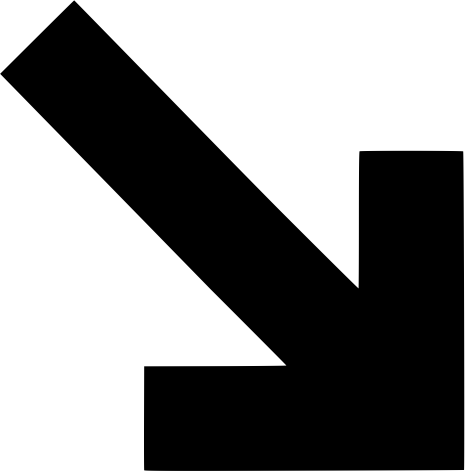
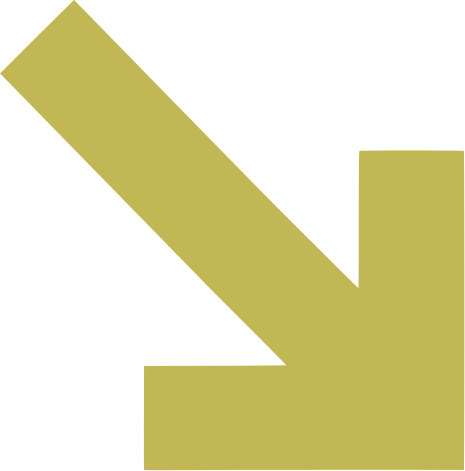
better colors some responsive

diff --git a/docs/css/style.css b/docs/css/style.css
@@ -1,2 +1,2 @@
-@font-face{font-family:'Flaco';src:url("../fonts/FlacoUltLig/Flaco-UltLig.eot");src:url("../fonts/FlacoUltLig/Flaco-UltLig.eot?#iefix") format("embedded-opentype"),url("../fonts/FlacoUltLig/Flaco-UltLig.woff") format("woff"),url("../fonts/FlacoUltLig/Flaco-UltLig.ttf") format("truetype"),url("../fonts/FlacoUltLig/Flaco-UltLig.svg#Flaco-UltLig") format("svg");font-style:normal;font-weight:100;text-rendering:optimizeLegibility}@font-face{font-family:'Flaco';src:url("../fonts/FlacoThin/Flaco-Thin.eot");src:url("../fonts/FlacoThin/Flaco-Thin.eot?#iefix") format("embedded-opentype"),url("../fonts/FlacoThin/Flaco-Thin.woff") format("woff"),url("../fonts/FlacoThin/Flaco-Thin.ttf") format("truetype"),url("../fonts/FlacoThin/Flaco-Thin.svg#Flaco-Thin") format("svg");font-style:normal;font-weight:200;text-rendering:optimizeLegibility}@font-face{font-family:'Flaco';src:url("../fonts/FlacoXLig/Flaco-XLig.eot");src:url("../fonts/FlacoXLig/Flaco-XLig.eot?#iefix") format("embedded-opentype"),url("../fonts/FlacoXLig/Flaco-XLig.woff") format("woff"),url("../fonts/FlacoXLig/Flaco-XLig.ttf") format("truetype"),url("../fonts/FlacoXLigont/Flaco-XLig.svg#Flaco-XLig") format("svg");font-style:normal;font-weight:300;text-rendering:optimizeLegibility}@font-face{font-family:'Flaco';src:url("../fonts/FlacoLig/Flaco-Lig.eot");src:url("../fonts/FlacoLig/Flaco-Lig.eot?#iefix") format("embedded-opentype"),url("../fonts/FlacoLig/Flaco-Lig.woff") format("woff"),url("../fonts/FlacoLig/Flaco-Lig.ttf") format("truetype"),url("../fonts/FlacoLig/Flaco-Lig.svg#Flaco-Lig") format("svg");font-style:normal;font-weight:400;text-rendering:optimizeLegibility}@font-face{font-family:'Flaco';src:url("../fonts/FlacoReg/Flaco-Reg.eot");src:url("../fonts/FlacoReg/Flaco-Reg.eot?#iefix") format("embedded-opentype"),url("../fonts/FlacoReg/Flaco-Reg.woff") format("woff"),url("../fonts/FlacoReg/Flaco-Reg.ttf") format("truetype"),url("../fonts/FlacoReg/Flaco-Reg.svg#Flaco-Reg") format("svg");font-style:normal;font-weight:500;text-rendering:optimizeLegibility}@font-face{font-family:'Flaco';src:url("../fonts/FlacoMedium/Flaco-Medium.eot");src:url("../fonts/FlacoMedium/Flaco-Medium.eot?#iefix") format("embedded-opentype"),url("../fonts/FlacoMedium/Flaco-Medium.woff") format("woff"),url("../fonts/FlacoMedium/Flaco-Medium.ttf") format("truetype"),url("../fonts/FlacoMedium/Flaco-Medium.svg#Flaco-Medium") format("svg");font-style:normal;font-weight:600;text-rendering:optimizeLegibility}@font-face{font-family:'Flaco';src:url("../fonts/FlacoBol/Flaco-Bol.eot");src:url("../fonts/FlacoBol/Flaco-Bol.eot?#iefix") format("embedded-opentype"),url("../fonts/FlacoBol/Flaco-Bol.woff") format("woff"),url("../fonts/FlacoBol/Flaco-Bol.ttf") format("truetype"),url("../fonts/FlacoBol/Flaco-Bol.svg#Flaco-Bol") format("svg");font-style:normal;font-weight:700;text-rendering:optimizeLegibility}@font-face{font-family:'Flaco';src:url("../fonts/FlacoXBol/Flaco-XBol.eot");src:url("../fonts/FlacoXBol/Flaco-XBol.eot?#iefix") format("embedded-opentype"),url("../fonts/FlacoXBol/Flaco-XBol.woff") format("woff"),url("../fonts/FlacoXBol/Flaco-XBol.ttf") format("truetype"),url("../fonts/FlacoXBol/Flaco-XBol.svg#Flaco-XBol") format("svg");font-style:normal;font-weight:800;text-rendering:optimizeLegibility}@font-face{font-family:'Flaco';src:url("../fonts/FlacoHeavy/Flaco-Heavy.eot");src:url("../fonts/FlacoHeavy/Flaco-Heavy.eot?#iefix") format("embedded-opentype"),url("../fonts/FlacoHeavy/Flaco-Heavy.woff") format("woff"),url("../fonts/FlacoHeavy/Flaco-Heavy.ttf") format("truetype"),url("../fonts/FlacoHeavy/Flaco-Heavy.svg#Flaco-Heavy") format("svg");font-style:normal;font-weight:900;text-rendering:optimizeLegibility}@font-face{font-family:'Flaco Mono';src:url("../fonts/FlacoMono/FlacoMono-Reg.eot");src:url("../fonts/FlacoMono/FlacoMono-Reg.eot?#iefix") format("embedded-opentype"),url("../fonts/FlacoMono/FlacoMono-Reg.woff") format("woff"),url("../fonts/FlacoMono/FlacoMono-Reg.ttf") format("truetype"),url("../fonts/FlacoMono/FlacoMono-Reg.svg#FlacoMono-Reg") format("svg");font-style:normal;font-weight:normal;text-rendering:optimizeLegibility}body{font-family:'Flaco', sans-serif;font-weight:400;color:#EDEAE3;background-color:#1f1f1f;padding:0px;margin:0px}h1{font-weight:900;font-size:48px}a{color:white;text-decoration:underline;-webkit-transition:all 0.15s ease-out;-moz-transition:all 0.15s ease-out;-ms-transition:all 0.15s ease-out;-o-transition:all 0.15s ease-out;transition:all 0.15s ease-out}a:hover{opacity:.5}#header-container{padding-top:48px;padding-left:20px;padding-right:20px;background-color:#1f1f1f}#title{width:33.33333%;color:#1DA1F2}@media (min-width: 800px){#main-content-container{display:flex;flex-direction:row;align-items:flex-start}}#abstract{width:33.33333%;padding-left:20px;padding-right:20px}#mirror{padding:12px;cursor:pointer;text-decoration:none;width:66.66667%;height:90vh;background-color:#fafafa;color:#1f1f1f;font-size:128px;font-weight:800;line-height:120px;letter-spacing:-5px;-webkit-transition:all 0.45s ease-out;-moz-transition:all 0.45s ease-out;-ms-transition:all 0.45s ease-out;-o-transition:all 0.45s ease-out;transition:all 0.45s ease-out}#mirror:hover{opacity:1;transform:translateY(10px);color:blue}#mirror:active{transform:translateY(15px)}#mirror #bord{width:80%;margin-top:82px;border-bottom:1px solid black}#mirror #twitdown{width:200px;height:auto;float:right;bottom:0px}#mirror #mirror-text{font-size:48px;opacity:.5;letter-spacing:-2px;user-select:none}
+@font-face{font-family:'Flaco';src:url("../fonts/FlacoUltLig/Flaco-UltLig.eot");src:url("../fonts/FlacoUltLig/Flaco-UltLig.eot?#iefix") format("embedded-opentype"),url("../fonts/FlacoUltLig/Flaco-UltLig.woff") format("woff"),url("../fonts/FlacoUltLig/Flaco-UltLig.ttf") format("truetype"),url("../fonts/FlacoUltLig/Flaco-UltLig.svg#Flaco-UltLig") format("svg");font-style:normal;font-weight:100;text-rendering:optimizeLegibility}@font-face{font-family:'Flaco';src:url("../fonts/FlacoThin/Flaco-Thin.eot");src:url("../fonts/FlacoThin/Flaco-Thin.eot?#iefix") format("embedded-opentype"),url("../fonts/FlacoThin/Flaco-Thin.woff") format("woff"),url("../fonts/FlacoThin/Flaco-Thin.ttf") format("truetype"),url("../fonts/FlacoThin/Flaco-Thin.svg#Flaco-Thin") format("svg");font-style:normal;font-weight:200;text-rendering:optimizeLegibility}@font-face{font-family:'Flaco';src:url("../fonts/FlacoXLig/Flaco-XLig.eot");src:url("../fonts/FlacoXLig/Flaco-XLig.eot?#iefix") format("embedded-opentype"),url("../fonts/FlacoXLig/Flaco-XLig.woff") format("woff"),url("../fonts/FlacoXLig/Flaco-XLig.ttf") format("truetype"),url("../fonts/FlacoXLigont/Flaco-XLig.svg#Flaco-XLig") format("svg");font-style:normal;font-weight:300;text-rendering:optimizeLegibility}@font-face{font-family:'Flaco';src:url("../fonts/FlacoLig/Flaco-Lig.eot");src:url("../fonts/FlacoLig/Flaco-Lig.eot?#iefix") format("embedded-opentype"),url("../fonts/FlacoLig/Flaco-Lig.woff") format("woff"),url("../fonts/FlacoLig/Flaco-Lig.ttf") format("truetype"),url("../fonts/FlacoLig/Flaco-Lig.svg#Flaco-Lig") format("svg");font-style:normal;font-weight:400;text-rendering:optimizeLegibility}@font-face{font-family:'Flaco';src:url("../fonts/FlacoReg/Flaco-Reg.eot");src:url("../fonts/FlacoReg/Flaco-Reg.eot?#iefix") format("embedded-opentype"),url("../fonts/FlacoReg/Flaco-Reg.woff") format("woff"),url("../fonts/FlacoReg/Flaco-Reg.ttf") format("truetype"),url("../fonts/FlacoReg/Flaco-Reg.svg#Flaco-Reg") format("svg");font-style:normal;font-weight:500;text-rendering:optimizeLegibility}@font-face{font-family:'Flaco';src:url("../fonts/FlacoMedium/Flaco-Medium.eot");src:url("../fonts/FlacoMedium/Flaco-Medium.eot?#iefix") format("embedded-opentype"),url("../fonts/FlacoMedium/Flaco-Medium.woff") format("woff"),url("../fonts/FlacoMedium/Flaco-Medium.ttf") format("truetype"),url("../fonts/FlacoMedium/Flaco-Medium.svg#Flaco-Medium") format("svg");font-style:normal;font-weight:600;text-rendering:optimizeLegibility}@font-face{font-family:'Flaco';src:url("../fonts/FlacoBol/Flaco-Bol.eot");src:url("../fonts/FlacoBol/Flaco-Bol.eot?#iefix") format("embedded-opentype"),url("../fonts/FlacoBol/Flaco-Bol.woff") format("woff"),url("../fonts/FlacoBol/Flaco-Bol.ttf") format("truetype"),url("../fonts/FlacoBol/Flaco-Bol.svg#Flaco-Bol") format("svg");font-style:normal;font-weight:700;text-rendering:optimizeLegibility}@font-face{font-family:'Flaco';src:url("../fonts/FlacoXBol/Flaco-XBol.eot");src:url("../fonts/FlacoXBol/Flaco-XBol.eot?#iefix") format("embedded-opentype"),url("../fonts/FlacoXBol/Flaco-XBol.woff") format("woff"),url("../fonts/FlacoXBol/Flaco-XBol.ttf") format("truetype"),url("../fonts/FlacoXBol/Flaco-XBol.svg#Flaco-XBol") format("svg");font-style:normal;font-weight:800;text-rendering:optimizeLegibility}@font-face{font-family:'Flaco';src:url("../fonts/FlacoHeavy/Flaco-Heavy.eot");src:url("../fonts/FlacoHeavy/Flaco-Heavy.eot?#iefix") format("embedded-opentype"),url("../fonts/FlacoHeavy/Flaco-Heavy.woff") format("woff"),url("../fonts/FlacoHeavy/Flaco-Heavy.ttf") format("truetype"),url("../fonts/FlacoHeavy/Flaco-Heavy.svg#Flaco-Heavy") format("svg");font-style:normal;font-weight:900;text-rendering:optimizeLegibility}@font-face{font-family:'Flaco Mono';src:url("../fonts/FlacoMono/FlacoMono-Reg.eot");src:url("../fonts/FlacoMono/FlacoMono-Reg.eot?#iefix") format("embedded-opentype"),url("../fonts/FlacoMono/FlacoMono-Reg.woff") format("woff"),url("../fonts/FlacoMono/FlacoMono-Reg.ttf") format("truetype"),url("../fonts/FlacoMono/FlacoMono-Reg.svg#FlacoMono-Reg") format("svg");font-style:normal;font-weight:normal;text-rendering:optimizeLegibility}body{font-family:'Flaco', sans-serif;font-weight:400;color:#1f1f1f;background-color:#fff9f2;padding:0px;margin:0px}h1{font-weight:900;font-size:48px}a{color:inherit;text-decoration:underline;-webkit-transition:all 0.15s ease-out;-moz-transition:all 0.15s ease-out;-ms-transition:all 0.15s ease-out;-o-transition:all 0.15s ease-out;transition:all 0.15s ease-out}a:hover{opacity:.5}p{font-weight:600;font-size:14px;line-height:17px;color:#1f1f1f}#header-container{padding-top:48px;padding-left:20px;padding-right:20px;background-color:#fff9f2;width:100%}@media (min-width: 600px){#header-container{margin-left:8.33333%}}@media (min-width: 1200px){#header-container{margin-left:8.33333%}}#title{color:#1DA1F2;font-weight:500}#main-content-container{display:flex;flex-direction:column}@media (min-width: 800px){#main-content-container{flex-direction:row;align-items:flex-start}}#abstract{padding-left:20px;padding-right:20px;width:100%}@media (min-width: 600px){#abstract{margin-left:8.33333%;width:83.33333%}}@media (min-width: 1200px){#abstract{margin-left:8.33333%;width:25%}}#spacer-div{width:8.33333%;padding-left:20px;padding-right:20px}#mirror{-webkit-clip-path:polygon(0 0, 100% 0, 100% 20%, 100% 80%, 100% 100%, 20% 100%, 0% 80%, 0% 20%);clip-path:polygon(0 0, 100% 0, 100% 20%, 100% 80%, 100% 100%, 20% 100%, 0% 80%, 0% 20%);padding:12px;cursor:pointer;text-decoration:none;width:58.33333%;height:724px;background-color:#1f1f1f;color:#C1B755;font-size:128px;font-weight:800;line-height:120px;letter-spacing:-5px;overflow:hidden;-webkit-transition:all 0.45s ease-out;-moz-transition:all 0.45s ease-out;-ms-transition:all 0.45s ease-out;-o-transition:all 0.45s ease-out;transition:all 0.45s ease-out}#mirror:hover{transform:translateY(10px)}#mirror:active{transform:translateY(15px)}#mirror #bord{width:80%;margin-top:82px;border-bottom:1px solid #hl-color}#mirror #twitdown{width:250px;height:auto;margin-top:12px;margin-left:auto;margin-right:0px;position:relative;bottom:0px}#mirror #mirror-text{font-size:44px;margin-left:20%;color:#fff9f2;letter-spacing:0px;user-select:none}
 /*# sourceMappingURL=style.css.map */

diff --git a/docs/index.html b/docs/index.html
@@ -17,21 +17,21 @@
 
 			<p>A brief literature review suggests that that self-awareness can reduce aggressive behavior aimed towards the self and towards others. Two types of self-awareness are relevant: with private, self-focused attention encourages reflection on one's own attitudes, standards, and emotional states. In some studies, private self-awareness is induced with the presence of mirrors and live video feeds of onself.  Public self-awareness, on the other hand, can be induced with the presence of cameras or other people, and is typically concerned with notions of accountability and extrinsic social standards.</p>
 
-			<p>Omayeli Arenyeka has written about the power of the browser extension to create <a href="https://www.are.na/blog/case%20study/2018/04/03/alternate-digital-realities.html">alternative digital realities</a>. If the browser and the timeline or stream are primary interfaces for viewing and interacting with the world, these interfaces present opportunities for high-leverage interventions that facilitate positive feedback loops.</p>
+			<p>Omayeli Arenyeka has written about the power of the browser extension to create <a target="_blank" href="https://www.are.na/blog/case%20study/2018/04/03/alternate-digital-realities.html">alternative digital realities</a>. If the browser and the timeline or stream are primary interfaces for viewing and interacting with the world, these interfaces present opportunities for high-leverage interventions that facilitate positive feedback loops.</p>
 
-			<p>Made by @simpolism and @tobyshorin.</p>
+			<p>Made by <a target="_blank" href="https://twitter.com/simpolism">@simpolism</a> and <a target="_blank" href="https://twitter.com/tobyshorin">@tobyshorin</a>.</p>
 		</div>
+		<div id="spacer-div"></div>
 		<div id="mirror">Keep others<br>in mind when you tweet.
-			<img id="twitdown" src="static/twitdown.png">
-			<div id="bord"></div>
-			<div id="mirror-text">Download Chrome extension</div>	
+			<img id="twitdown" src="static/twitdown2.png"><img id="twitdown" src="static/twitdown2.png"><img id="twitdown" src="static/twitdown2.png">
+			<div id="mirror-text">Download Chrome extension</div>
 		</div>		
 	</div>
 
 <!-- 	<div id="about-section">
 		<div class="about-content">
 			Who made this?
-			<p><a href="https://twitter.com/simpolism">@simpolism</a> and <a href="https://twitter.com/tobyshorin">@tobyshorin</a>.</p>
+			<p><a target="_blank" href="https://twitter.com/simpolism">@simpolism</a> and <a target="_blank" href="https://twitter.com/tobyshorin">@tobyshorin</a>.</p>
 		</div>
 		<div class="about-content">https://www.are.na/toby-shorin/mirror-for-twitter</div>
 		<div class="about-content">https://www.are.na/toby-shorin/mirror-for-twitter</div>

diff --git a/docs/css/style.scss b/docs/css/style.scss
@@ -7,11 +7,16 @@
 
 $baseline-height: 24px;
 
+$bg-color: #fff9f2;
+$txt-color: #1f1f1f;
+$tw-color: #1DA1F2;
+$hl-color: #C1B755;
+
 body {
 	font-family: 'Flaco', sans-serif;
 	font-weight: 400;
-	color:#EDEAE3;
-	background-color: #1f1f1f;
+	color: $txt-color;
+	background-color: $bg-color;
 	padding: 0px;
 	margin: 0px;
 }
@@ -22,7 +27,7 @@ h1{
 }
 
 a {
-	color: white;
+	color: inherit;
 	text-decoration: underline;
 	@include transition (all .15s ease-out);
 	&:hover{
@@ -31,52 +36,82 @@ a {
 }
 
 p{
-
+	font-weight: 600;
+	font-size: 14px;
+	line-height: 17px;
+	color: $txt-color;
 }
 
 #header-container{
 	padding-top: $baseline-height * 2;
 	@include p(); 
-	background-color: #1f1f1f;
+	background-color: $bg-color;
+	width: g(12,12);
+
+	@media (min-width:600px){
+		margin-left: g(1,12);
+	}	
+
+	@media (min-width:1200px){
+		margin-left: g(1,12);
+	}	
+
 }
 
 #title{
-	width: g(2,6);
-	color: #1DA1F2;
+	color: $tw-color;
+	font-weight: 500;
 }
 
 
 #main-content-container{
-
+	display: flex;
+	flex-direction: column;
 	@media (min-width: 800px){
-		display: flex;
 		flex-direction: row;
 		align-items: flex-start;
 	}
+
 }
 
 #abstract{
-	width: g(2,6);
+	@include p();
+	width: g(12,12);
+
+	@media (min-width:600px){
+		margin-left: g(1,12);
+		width: g(10,12);
+	}	
+
+	@media (min-width:1200px){
+		margin-left: g(1,12);
+		width: g(3,12);
+	}	
+}
+
+#spacer-div{
+	width: g(1,12);
 	@include p();
 }
 
 #mirror{
+	-webkit-clip-path: polygon(0 0, 100% 0, 100% 20%, 100% 80%, 100% 100%, 20% 100%, 0% 80%, 0% 20%);
+	clip-path: polygon(0 0, 100% 0, 100% 20%, 100% 80%, 100% 100%, 20% 100%, 0% 80%, 0% 20%);
 	padding: $baseline-height / 2;
 	cursor: pointer;
 	text-decoration: none;
-	width: g(4,6);
-	height: 90vh;
-	background-color: #fafafa;
-	color: #1f1f1f;
+	width: g(7,12);
+	height: 724px;
+	background-color: $txt-color;
+	color: $hl-color;
 	font-size: 128px;
 	font-weight: 800;
 	line-height: 120px;
 	letter-spacing: -5px;
+	overflow: hidden;
 	@include transition(all .45s ease-out);
 	&:hover{
-		opacity: 1;
 		transform: translateY(10px);
-		color: blue;
 	}
 	&:active{
 		transform: translateY(15px);
@@ -84,18 +119,23 @@ p{
 	#bord{
 		width: 80%;
 		margin-top: 82px;
-		border-bottom: 1px solid black;
+		border-bottom: 1px solid #hl-color;
 	}
 	#twitdown{
-		width: 200px;
+		width: 250px;
 		height: auto;
-		float:right;
+		margin-top: $baseline-height / 2;
+		margin-left: auto;
+		margin-right: 0px;
+		position: relative;
 		bottom: 0px;
 	}
 	#mirror-text{
-		font-size: 48px;
-		opacity: .5;
-		letter-spacing: -2px;
+		font-size: 44px;
+		margin-left: 20%;
+		color: $bg-color;
+		letter-spacing: 0px;
 		user-select:none;
+
 	}
 }
